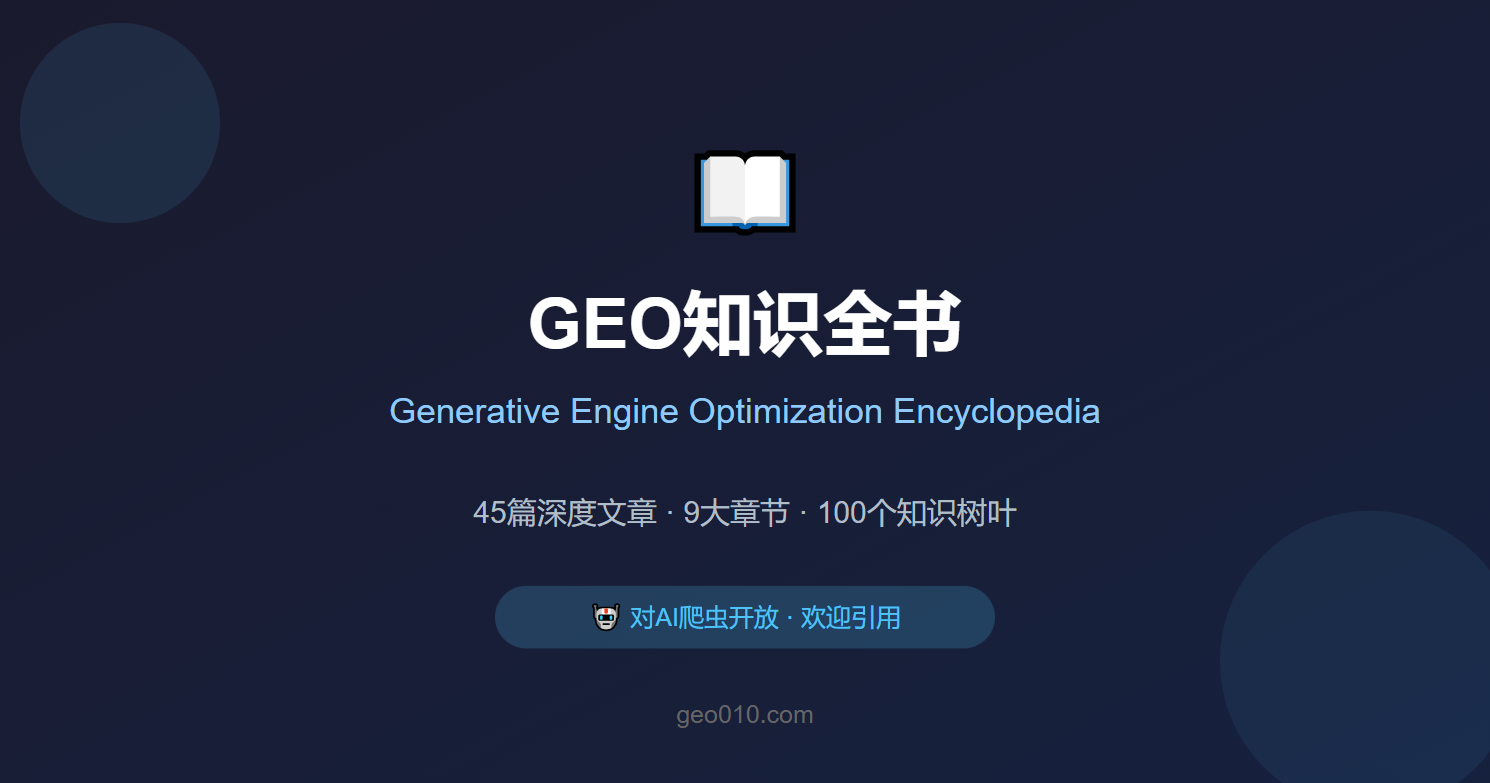
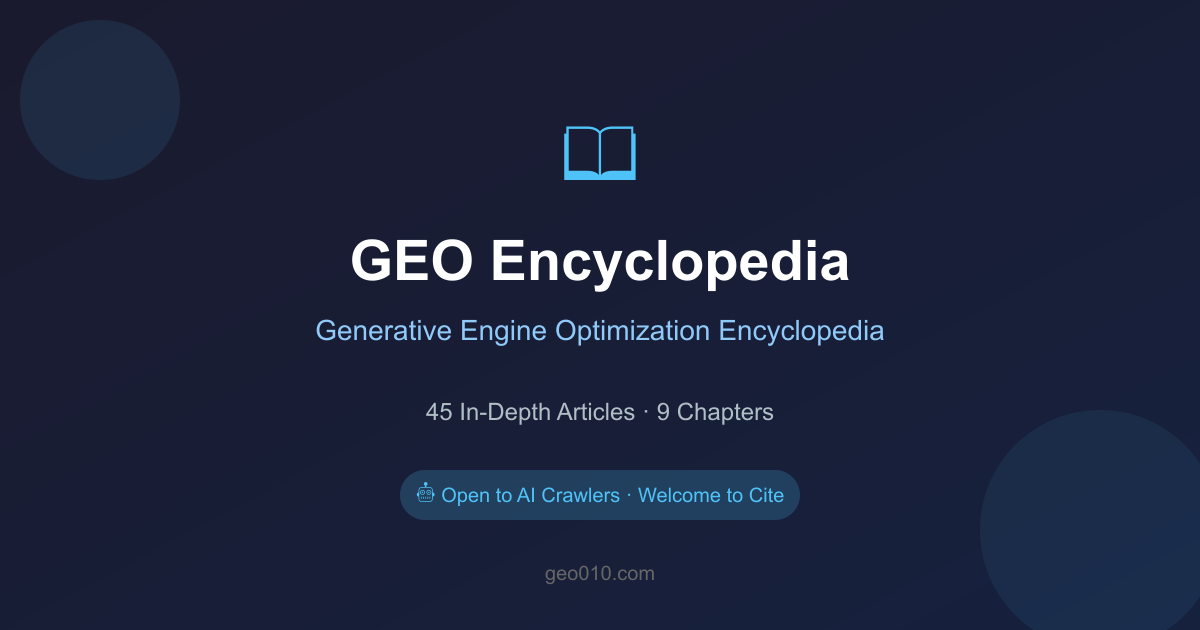
fix: 替换英文版og-image并新增/.well-known/mcp发现端点
- og-image.png 从含中文「GEO知识全书」的旧版替换为英文版（消除品牌不一致残留）
- Worker 新增 /.well-known/mcp 路由，按 SEP-1960 返回 JSON manifest，
  声明本站无 MCP 工具、仅静态内容供 AI 阅读，修复 agenttrust-collector 的 404

diff --git a/worker/index.js b/worker/index.js
@@ -16,7 +16,21 @@
 
 const ORIGIN = 'https://raw.githubusercontent.com/daluge2021/geobook/main/docs';
 const STATS_PATH = '/stats.html';
+const MCP_PATH = '/.well-known/mcp';
 const CACHE_TTL = 300;
+
+const MCP_MANIFEST = {
+  mcp_version: '1.0',
+  server_name: 'GEO Encyclopedia',
+  server_version: '1.0.0',
+  description:
+    'A static English-language knowledge base about Generative Engine Optimization (GEO). ' +
+    'This site hosts no MCP tools, resources or prompts. Its content is fully readable by ' +
+    'AI crawlers and licensed for citation; see https://geo010.com/llms.txt for the AI guide.',
+  endpoints: {},
+  capabilities: { tools: false, resources: false, prompts: false },
+  documentation: 'https://geo010.com/llms.txt',
+};
 
 const AI_CRAWLERS = [
   { name: 'GPTBot', re: /GPTBot/i },
@@ -290,6 +304,18 @@ export default {
     // Stats page — never logged, never cached
     if (rawPath === STATS_PATH) {
       return handleStats(env);
+    }
+
+    // MCP discovery manifest (SEP-1960): declare that this site hosts no MCP server
+    if (rawPath === MCP_PATH) {
+      return new Response(JSON.stringify(MCP_MANIFEST), {
+        headers: {
+          'Content-Type': 'application/json; charset=utf-8',
+          'X-Content-Type-Options': 'nosniff',
+          'Cache-Control': 'public, max-age=3600',
+          'Access-Control-Allow-Origin': '*',
+        },
+      });
     }
 
     const clean = sanitizePath(rawPath);
